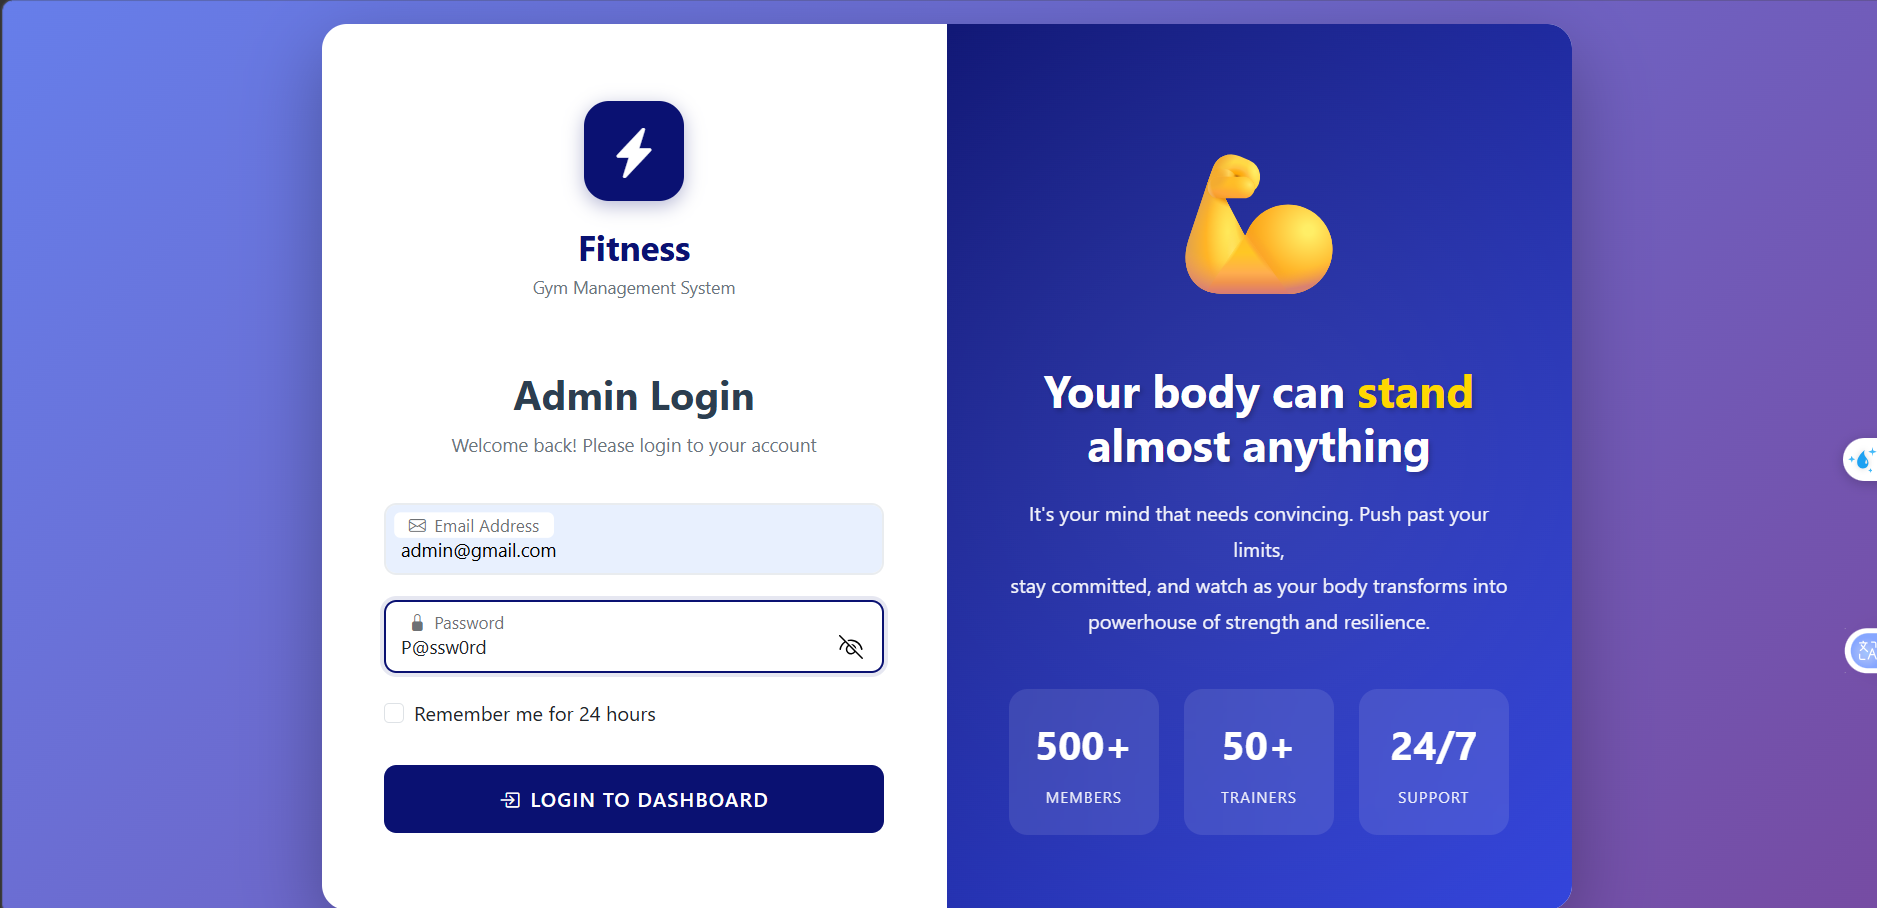
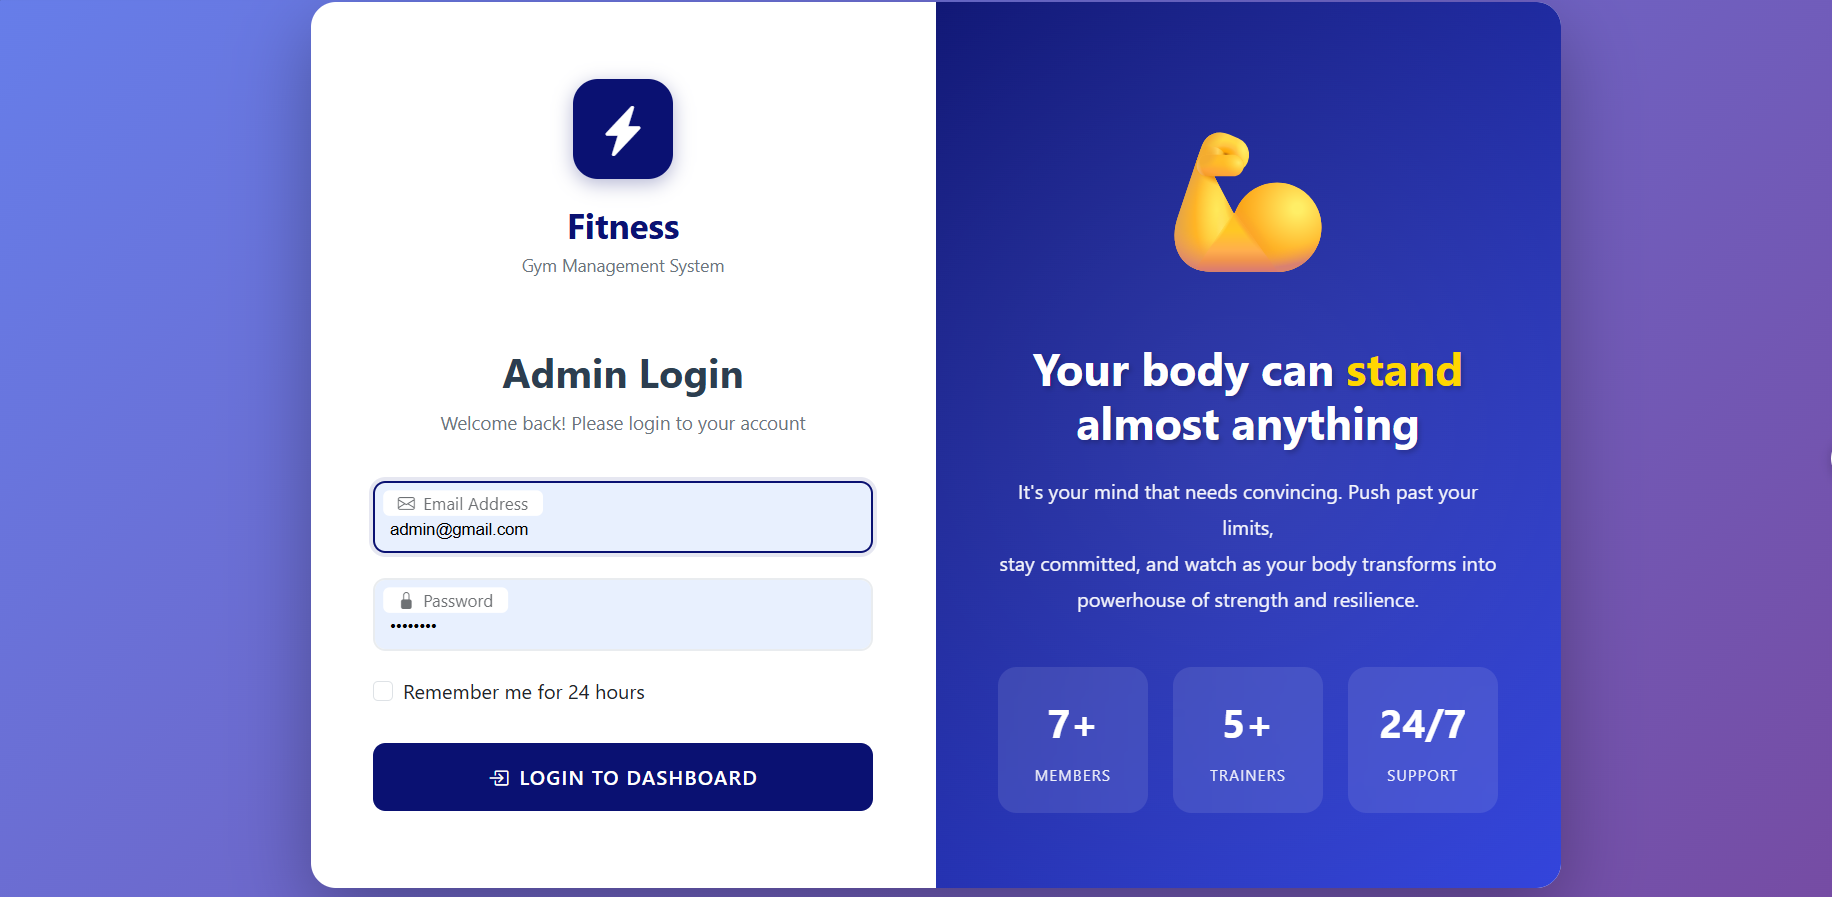
feat: display dynamic analytics on login page

diff --git a/GymSystem/Controllers/AccountController.cs b/GymSystem/Controllers/AccountController.cs
@@ -1,4 +1,5 @@
-using GymSystem.BLL.ViewModels.AccountViewModels;
+using GymSystem.BLL.Services.Interfaces;
+using GymSystem.BLL.ViewModels.AccountViewModels;
 using GymSystem.Controllers;
 using GymSystem.DAL.Models;
 using Microsoft.AspNetCore.Authorization;
@@ -11,47 +12,91 @@ namespace GymSystem.PL.Controllers
     {
         private readonly UserManager<ApplicationUser> userManager;
         private readonly SignInManager<ApplicationUser> signInManager;
+        private readonly IAnalyticsServices analyticsServices;
 
-        public AccountController(UserManager<ApplicationUser> userManager ,SignInManager<ApplicationUser> signInManager)
+        public AccountController(
+            UserManager<ApplicationUser> userManager,
+            SignInManager<ApplicationUser> signInManager,
+            IAnalyticsServices analyticsServices)
         {
             this.userManager = userManager;
             this.signInManager = signInManager;
+            this.analyticsServices = analyticsServices;
         }
 
         [HttpGet]
-        public IActionResult Login()
+        public async Task<IActionResult> Login()
         {
-            return View();
+            var analytics = await analyticsServices.GetAnalyticsDataAsync();
+
+            var viewModel = new LoginPageViewModel
+            {
+                Analytics = analytics
+            };
+
+            return View(viewModel);
         }
 
         [HttpPost]
-        public async Task<IActionResult> Login(LoginViewModel model , CancellationToken ct)
+        public async Task<IActionResult> Login(LoginPageViewModel model)
         {
             if (!ModelState.IsValid)
-                return View(model);
-
-            var user = await userManager.FindByEmailAsync(model.Email);
-
-            if(user is null || string.IsNullOrEmpty(user.UserName))
             {
-                ModelState.AddModelError(String.Empty, "Invalid Email Or Password..");
+                model.Analytics =
+                    await analyticsServices.GetAnalyticsDataAsync();
+
                 return View(model);
             }
 
-            var Result = await signInManager.PasswordSignInAsync(user.UserName, model.Password, model.RememberMe, true);
+            var user =
+                await userManager.FindByEmailAsync(model.Login.Email);
 
-            if(Result.Succeeded)
+            if (user is null || string.IsNullOrEmpty(user.UserName))
             {
-                return RedirectToAction(nameof(HomeController.Index), "Home");
+                ModelState.AddModelError(
+                    string.Empty,
+                    "Invalid Email Or Password.");
+
+                model.Analytics =
+                    await analyticsServices.GetAnalyticsDataAsync();
+
+                return View(model);
             }
 
-            if (Result.IsLockedOut)
-                ModelState.AddModelError(string.Empty, "This Account is LockedOut");
+            var result = await signInManager.PasswordSignInAsync(
+                user.UserName,
+                model.Login.Password,
+                model.Login.RememberMe,
+                true);
 
+            if (result.Succeeded)
+            {
+                return RedirectToAction(
+                    nameof(HomeController.Index),
+                    "Home");
+            }
 
-            if (Result.IsNotAllowed)
-                ModelState.AddModelError(string.Empty, "Account is Un Authorized");
+            if (result.IsLockedOut)
+            {
+                ModelState.AddModelError(
+                    string.Empty,
+                    "This Account is Locked Out.");
+            }
+            else if (result.IsNotAllowed)
+            {
+                ModelState.AddModelError(
+                    string.Empty,
+                    "Account is Unauthorized.");
+            }
+            else
+            {
+                ModelState.AddModelError(
+                    string.Empty,
+                    "Invalid Email Or Password.");
+            }
 
+            model.Analytics =
+                await analyticsServices.GetAnalyticsDataAsync();
 
             return View(model);
         }
@@ -61,15 +106,13 @@ namespace GymSystem.PL.Controllers
         public async Task<IActionResult> Logout()
         {
             await signInManager.SignOutAsync();
-            return RedirectToAction(nameof(Login));
 
+            return RedirectToAction(nameof(Login));
         }
 
         public IActionResult AccessDenied()
         {
             return View();
         }
-
-
     }
 }

diff --git a/GymSystem.BLL/ViewModels/AccountViewModels/LoginPageViewModel.cs b/GymSystem.BLL/ViewModels/AccountViewModels/LoginPageViewModel.cs
@@ -1,0 +1,11 @@
+using GymSystem.BLL.ViewModels.AnalyticsViewModels;
+
+namespace GymSystem.BLL.ViewModels.AccountViewModels
+{
+    public class LoginPageViewModel
+    {
+        public LoginViewModel Login { get; set; } = new();
+
+        public AnalyticsViewModel Analytics { get; set; } = new();
+    }
+}

diff --git a/GymSystem.BLL/Services/Classes/AnalyticsServices.cs b/GymSystem.BLL/Services/Classes/AnalyticsServices.cs
@@ -1,5 +1,5 @@
 using GymSystem.BLL.Services.Interfaces;
-using GymSystem.BLL.ViewModels.AnalyticsViewModel;
+using GymSystem.BLL.ViewModels.AnalyticsViewModels;
 using GymSystem.DAL.Models;
 using GymSystem.DAL.Repository.Interfaces;
 using System;

diff --git a/GymSystem.BLL/ViewModels/AnalyticsViewModels/AnalyticsViewModel.cs b/GymSystem.BLL/ViewModels/AnalyticsViewModels/AnalyticsViewModel.cs
@@ -4,7 +4,7 @@ using System.Linq;
 using System.Text;
 using System.Threading.Tasks;
 
-namespace GymSystem.BLL.ViewModels.AnalyticsViewModel
+namespace GymSystem.BLL.ViewModels.AnalyticsViewModels
 {
     public class AnalyticsViewModel
     {

diff --git a/GymSystem.BLL/ViewModels/AccountViewModels/LoginViewModel.cs b/GymSystem.BLL/ViewModels/AccountViewModels/LoginViewModel.cs
@@ -17,4 +17,5 @@ namespace GymSystem.BLL.ViewModels.AccountViewModels
         public string Password { get; set; } = default!;
         public bool RememberMe { get; set; }  // saved cookies in browser true or false
     }
+
 }

diff --git a/GymSystem.BLL/Services/Interfaces/IAnalyticsServices.cs b/GymSystem.BLL/Services/Interfaces/IAnalyticsServices.cs
@@ -1,4 +1,4 @@
-using GymSystem.BLL.ViewModels.AnalyticsViewModel;
+using GymSystem.BLL.ViewModels.AnalyticsViewModels;
 using System;
 using System.Collections.Generic;
 using System.Linq;
